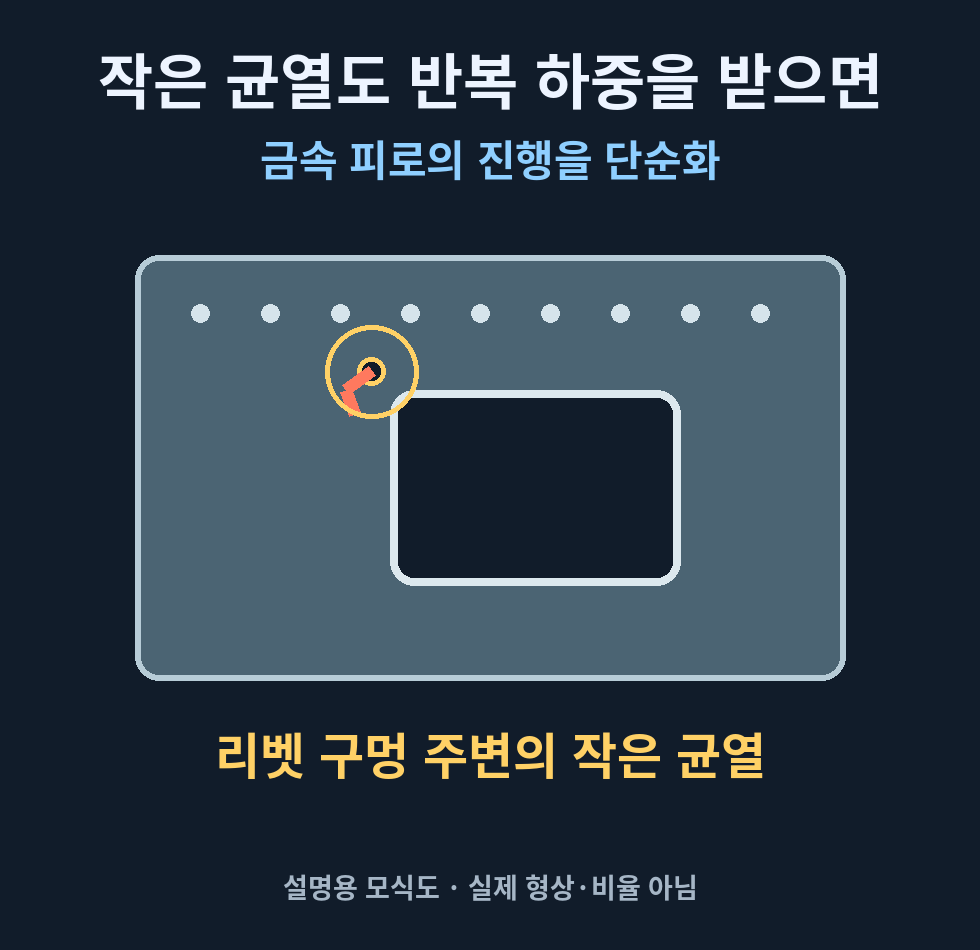
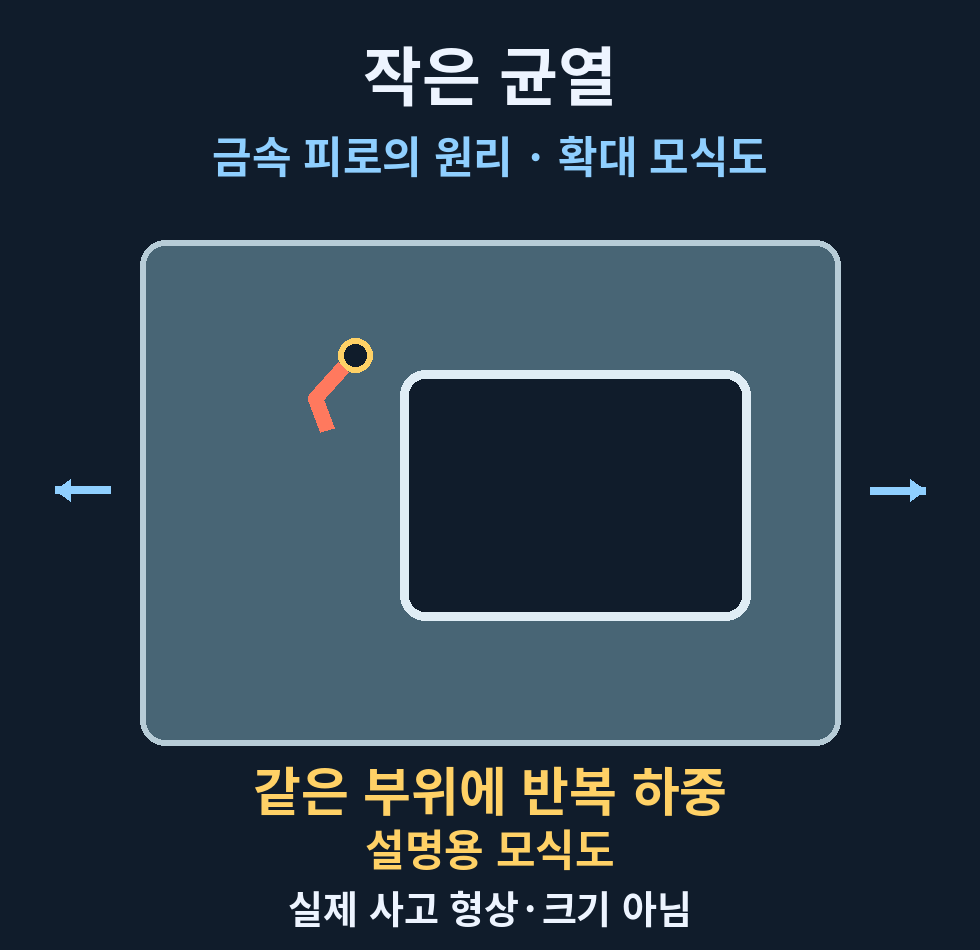
Show visible crack growth with original conceptual diagrams

diff --git a/tools/build_comet_fatigue_cards.py b/tools/build_comet_fatigue_cards.py
@@ -1,0 +1,92 @@
+"""Owned conceptual fatigue diagrams, with fixed specimen geometry across stages.
+These are explanatory schematics, not accident reconstruction or engineering simulation.
+"""
+from pathlib import Path
+import hashlib
+import json
+from PIL import Image, ImageDraw, ImageFont
+
+FONT = "/usr/share/fonts/opentype/noto/NotoSansCJK-Bold.ttc"
+W, H = 980, 950
+BG, WHITE, BLUE, GOLD, RED = "#101c2b", "#edf4ff", "#8fcfff", "#ffd166", "#ff795e"
+
+def base(title, subtitle):
+    im = Image.new("RGB", (W, H), BG)
+    d = ImageDraw.Draw(im)
+    text(d, 490, 72, title, 64)
+    text(d, 490, 154, subtitle, 43, BLUE)
+    return im, d
+
+def text(d, x, y, value, size=52, color=WHITE):
+    font = ImageFont.truetype(FONT, size)
+    box = d.textbbox((0, 0), value, font=font)
+    if box[2]-box[0] > W-70:
+        raise ValueError("Text must fit without shrinking: " + value)
+    d.text((x, y), value, font=font, fill=color, anchor="mm")
+
+def footer(d):
+    text(d, 490, 847, "설명용 모식도", 43, GOLD)
+    text(d, 490, 906, "실제 사고 형상·크기 아님", 38, WHITE)
+
+def specimen(d, stage, box=(140, 240, 840, 745)):
+    x0,y0,x1,y1 = box
+    sx,sy=(x1-x0)/700,(y1-y0)/505
+    def p(x,y): return (x0+x*sx,y0+y*sy)
+    def rect(r,**kwargs):d.rounded_rectangle((*p(r[0],r[1]),*p(r[2],r[3])),**kwargs)
+    rect((0,0,700,505),radius=int(25*min(sx,sy)),fill="#486575",outline="#b7ccd7",width=max(2,int(6*sx)))
+    # Same generic opening and hole in every state; positions are not accident coordinates.
+    rect((260,130,610,380),radius=int(25*min(sx,sy)),fill=BG,outline="#e0edf5",width=max(2,int(9*sx)))
+    hole=p(215,115);rr=17*min(sx,sy)
+    d.ellipse((hole[0]-rr,hole[1]-rr,hole[0]+rr,hole[1]+rr),fill=BG,outline=GOLD,width=max(2,int(6*sx)))
+    pts=[(203,127),(175,158),(187,190)]
+    if stage>=1:pts += [(149,232),(163,272),(121,317),(134,360),(93,405)]
+    if stage>=2:pts += [(110,447),(77,505)]
+    d.line([p(*a) for a in pts],fill=RED,width=max(3,int(15*sx)),joint="curve")
+    if stage>=2:
+        # Generic loss of continuity only; no physical stress or exact fracture prediction.
+        d.line([p(77,505),p(110,447),p(93,405)],fill=BG,width=max(4,int(22*sx)))
+    return p
+
+def build(root):
+    root=Path(root);root.mkdir(parents=True,exist_ok=True)
+    im,d=base("균열 시작 부근", "G-ALYP 사고 조사 결과")
+    p=specimen(d,0)
+    d.ellipse((292,303,417,429),outline=GOLD,width=6)
+    text(d,490,788,"ADF 개구부의 리벳 구멍 주변",47,GOLD)
+    footer(d);im.save(root/"rivet.png")
+
+    im,d=base("작은 균열", "금속 피로의 원리 · 확대 모식도")
+    specimen(d,0)
+    # Long opposing arrows show loading rather than imply air pressure through the opening.
+    for x,dx in [(110,-55),(870,55)]:
+        d.line((x,490,x+dx,490),fill=BLUE,width=8)
+        d.polygon([(x+dx,490),(x+dx-(15 if dx>0 else -15),479),(x+dx-(15 if dx>0 else -15),501)],fill=BLUE)
+    text(d,490,788,"같은 부위에 반복 하중",52,GOLD)
+    footer(d);im.save(root/"crack-small.png")
+
+    im,d=base("반복 하중 뒤", "같은 부위에서 균열이 성장")
+    specimen(d,1)
+    # Visible old/new extent, with a leader only to the crack tip.
+    d.line((233,645,100,706),fill=GOLD,width=7)
+    text(d,490,788,"균열이 더 길어짐",58,GOLD)
+    footer(d);im.save(root/"crack-grown.png")
+
+    im,d=base("핵심은 금속 피로", "같은 부위의 변화 · 설명용 모식도")
+    for i,(label,stage) in enumerate([("반복 하중",0),("균열 성장",1),("구조 파손",2)]):
+        y=230+i*185
+        specimen(d,stage,(465,y-35,835,y+120))
+        text(d,245,y+43,label,56,GOLD if i==1 else WHITE)
+        if i<2:
+            d.line((650,y+125,650,y+143),fill=BLUE,width=6)
+            d.polygon([(650,y+153),(639,y+138),(661,y+138)],fill=BLUE)
+    footer(d);im.save(root/"summary.png")
+
+if __name__=="__main__":
+    root=Path("assets/comet-terra")
+    build(root)
+    manifest={"type":"original explanatory schematic","author":"Shorts Studio",
+              "license":"project-owned original geometry","engineering_simulation":False,
+              "exact_accident_geometry":False,
+              "source_basis":"Existing verified factual_notes in examples/comet.json: fatigue origin at ADF rivet hole; growth under repeated loading.",
+              "assets":{n:hashlib.sha256((root/n).read_bytes()).hexdigest() for n in ["rivet.png","crack-small.png","crack-grown.png","summary.png"]}}
+    (root/"fatigue-provenance.json").write_text(json.dumps(manifest,ensure_ascii=False,indent=2)+"\n")

diff --git a/docs/comet-visible-fatigue-revision.md b/docs/comet-visible-fatigue-revision.md
@@ -1,0 +1,9 @@
+# Comet visible fatigue revision
+
+The sampled-frame review of attempt 183 found a real explanatory gain at 61s but HOLD: small crack details, crowded ending and repeated location/growth art. This revision supplies new owned conceptual geometry instead of replaying the exhausted automatic editor.
+
+Four cards use a fixed generic opening/hole specimen, a visibly longer crack under repeated loading, and a vertical three-state causal ending. The reconstruction disclaimer is enlarged and the precise metallic treatment is removed. All existing primary factual_notes, narration, narration plans, beat timing, caption sizes, sources and QA requirements are retained. Only descriptive semantic labels and normalized pixel hashes change to match the actual assets.
+
+This is original explanatory artwork, not a physical simulation or an exact reconstruction of G-ALYP. The G-ALYP finding and G-ALYU test evidence remain distinct. No external media or paid execution is introduced.
+
+The automatic campaign remains at iteration 183 with all failures and its last verified candidate retained. This separately assisted source-material revision does not reset its strategy budgets, relabel rejected attempts, promote a candidate or grant upload/human approval.
